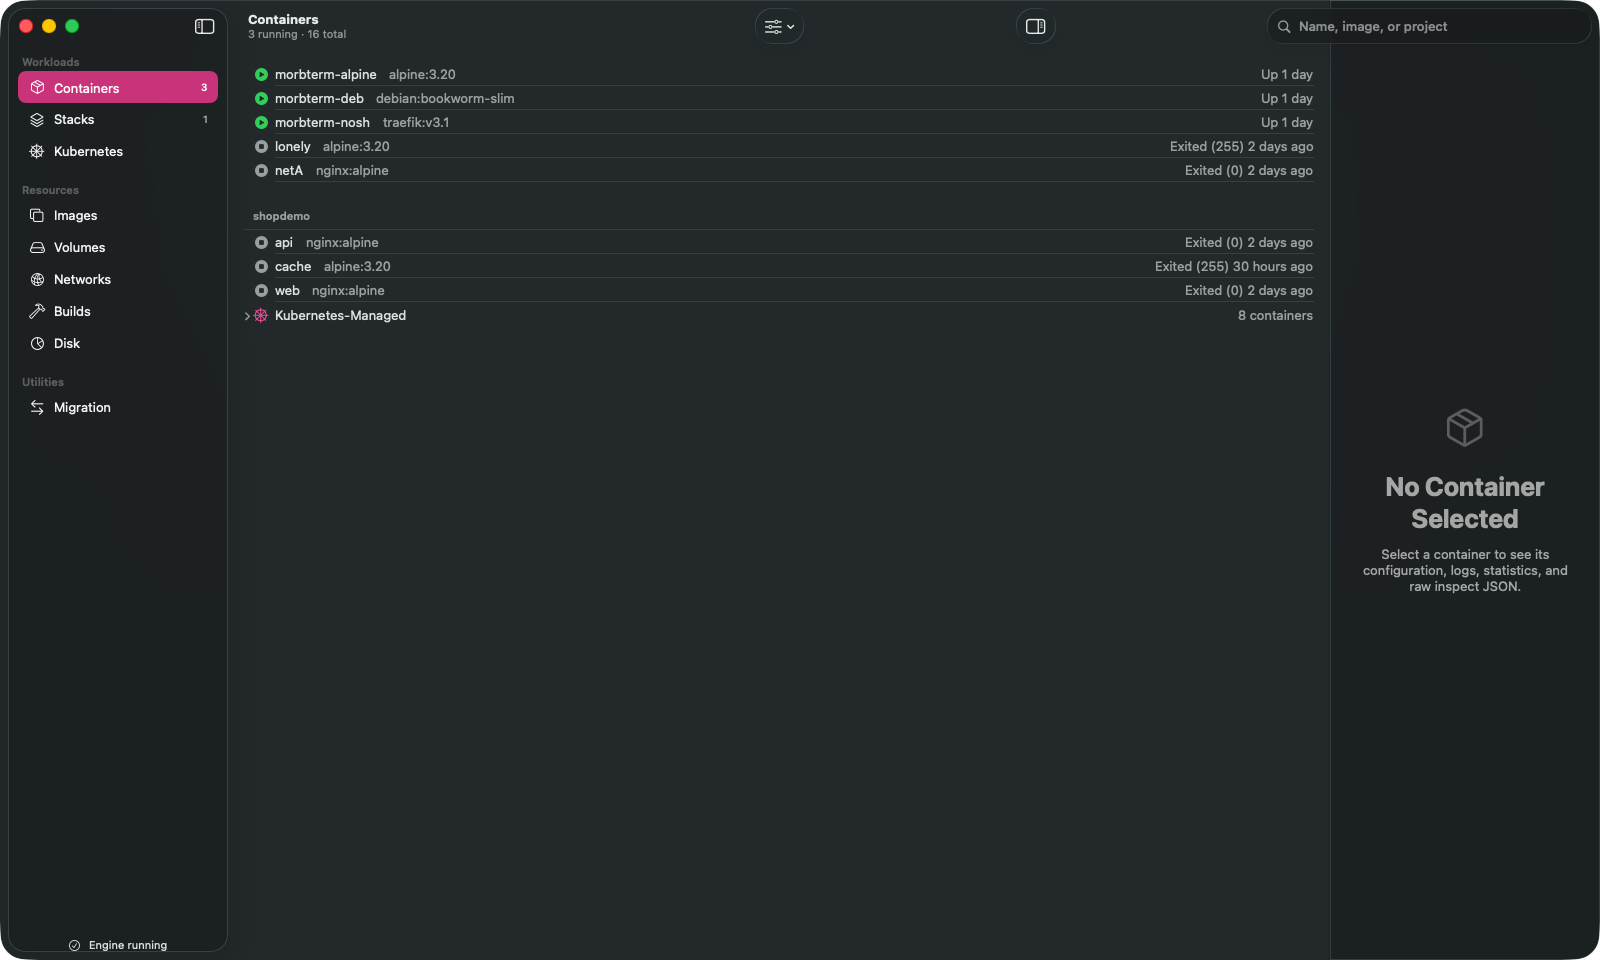
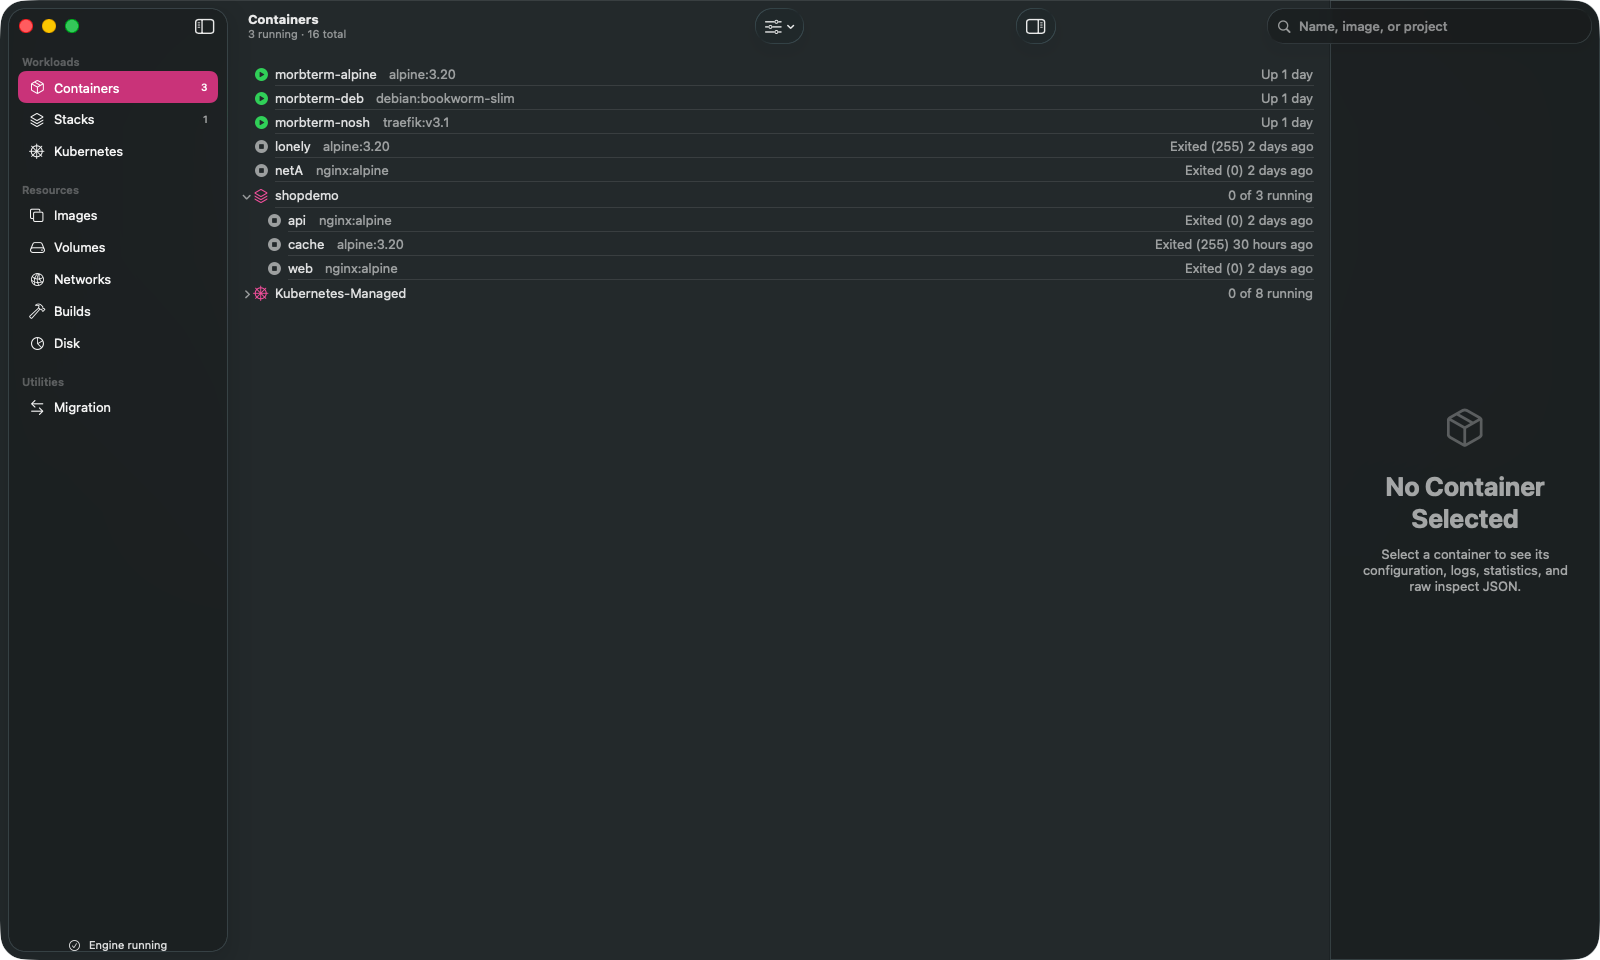
TASTE-2: one grouping idiom, and counts that answer the question
Containers showed two things that are the same kind of thing -- a named
collection of containers -- in two different ways. A Compose project was a
`Section`: not collapsible, no count. The Kubernetes tier was a
`DisclosureGroup`: collapsible, counted, with a symbol. One screen, two
grammars, and the reader has to learn both.

The taste review filed this when it was an internal inconsistency. Landing
TASTE-1 made it worse: StacksRootView now uses disclosure for the identical
concept, so the same idea had three presentations across two screens.

Both tiers are now disclosure groups with a symbol and a count, and both
force themselves open while a search is active -- a match concealed behind
a disclosure reads as no match at all.

The counts changed from "8 containers" to "0 of 8 running". A bare count
answers a question nobody asked; how many are UP is the reason you would
open the group. It is also the honest reading of this particular screen
right now: the shopdemo project looks alive until its header tells you
nothing in it is running.

Expansion state tracks what the person has deliberately COLLAPSED rather
than what they have expanded, matching Stacks. A project that appears while
the app is open therefore arrives visible; the inverse would mean every new
project starts hidden.

The file header claimed Compose projects were Sections. Rewritten, because
a header comment describing a structure the file no longer has is worse
[…]

Changed region(s): [[0.1562, 0.1875, 0.25, 0.3438], [0.7188, 0.1875, 0.8125, 0.3438]]

diff --git a/mac/Sources/MorbstackAppCore/Views/Containers/ContainersRootView.swift b/mac/Sources/MorbstackAppCore/Views/Containers/ContainersRootView.swift
@@ -10,14 +10,27 @@
 //
 // The list groups rows by what Docker itself reports about them, in three tiers:
 // plain `docker run` containers stay loose at the top, each Compose project becomes a
-// native `Section` named by its `com.docker.compose.project` label, and
-// kubelet-created containers collapse into one `DisclosureGroup`. The Kubernetes tier
-// exists because a single enabled cluster adds nine-plus machine-named rows
-// (`k8s_POD_…`) that bury the containers a person started deliberately. Collapsed is
-// not hidden: the group row states its true count, expands on click, and expands
-// itself whenever a search is active so a match can never be concealed. Stacks remains
-// the route that *manages* Compose projects; the section header here is only the
-// grouping fact, the same way Docker Desktop and OrbStack present it.
+// `DisclosureGroup` named by its `com.docker.compose.project` label, and kubelet-created
+// containers collapse into one more. The Kubernetes tier exists because a single enabled
+// cluster adds nine-plus machine-named rows (`k8s_POD_…`) that bury the containers a
+// person started deliberately.
+//
+// **One grouping idiom, deliberately.** Compose projects were `Section`s while the
+// Kubernetes tier was a `DisclosureGroup`, so two things that are the same kind of thing
+// — a named collection of containers — looked and behaved differently on one screen: one
+// collapsed, one did not, and only one carried a count. `StacksRootView` reaches for
+// disclosure for the identical concept, so this is consistent within the screen and
+// across the app.
+//
+// Collapsed is not hidden. Every group row carries "n of m running" — the fact that
+// would make someone open it, where a bare count answers a question nobody asked — and
+// every group forces itself open while a search is active, because a match concealed
+// behind a disclosure reads as no match at all.
+//
+// Expansion state tracks what the person has deliberately COLLAPSED, so a project that
+// appears while the app is open arrives visible. Stacks remains the route that *manages*
+// Compose projects; the grouping here is only the fact, the same way Docker Desktop and
+// OrbStack present it.
 
 import Foundation
 import MorbstackKit
@@ -101,6 +114,7 @@ struct ContainersRootView: View {
     /// the group row still names its count, so nothing is silently hidden — and
     /// forced open while a search is active so a matching row can always be seen.
     @State private var isKubernetesGroupExpanded = false
+    @State private var collapsedProjects: Set<String> = []
 
     private var stoppedCount: Int {
         model.containers.filter { !$0.isRunning }.count
@@ -353,12 +367,29 @@ struct ContainersRootView: View {
                 containerRow(container)
             }
 
+            // One grouping idiom for the whole screen. A Compose project used to be a
+            // `Section` while the Kubernetes group below was a `DisclosureGroup`, so
+            // two things that are the same kind of thing — a named collection of
+            // containers — looked and behaved differently on one list: one could be
+            // collapsed, one could not, and only one carried a count. `StacksRootView`
+            // reaches for disclosure for the identical concept, so this is the shape
+            // that is consistent both within the screen and across the app.
             ForEach(grouped.projects, id: \.name) { project in
-                Section(project.name) {
+                DisclosureGroup(isExpanded: projectExpansion(project.name)) {
                     ForEach(project.containers) { container in
                         containerRow(container)
                     }
+                } label: {
+                    HStack {
+                        Label(project.name, systemImage: "square.stack.3d.up")
+                        Spacer(minLength: 12)
+                        Text(runningSummary(project.containers))
+                            .foregroundStyle(.secondary)
+                            .monospacedDigit()
+                    }
+                    .help("Containers labelled with the Compose project \(project.name).")
                 }
+                .accessibilityIdentifier("containers.project.\(project.name)")
             }
 
             if !grouped.kubernetes.isEmpty {
@@ -372,7 +403,7 @@ struct ContainersRootView: View {
                         // so the group visibly points at that screen.
                         Label("Kubernetes-Managed", systemImage: "helm")
                         Spacer(minLength: 12)
-                        Text("\(grouped.kubernetes.count) container\(grouped.kubernetes.count == 1 ? "" : "s")")
+                        Text(runningSummary(grouped.kubernetes))
                             .foregroundStyle(.secondary)
                             .monospacedDigit()
                     }
@@ -396,6 +427,31 @@ struct ContainersRootView: View {
     /// Forced open while searching; the person's own expand/collapse otherwise.
     private var kubernetesGroupExpansion: Binding<Bool> {
         search.isEmpty ? $isKubernetesGroupExpanded : .constant(true)
+    }
+
+    /// Compose projects the person has deliberately collapsed. Tracking collapse
+    /// rather than expansion means a project that appears while the app is open
+    /// arrives visible — the default is the useful one. Search forces every project
+    /// open, for the same reason the Kubernetes group opens: a match hidden behind a
+    /// disclosure reads as no match at all.
+    private func projectExpansion(_ project: String) -> Binding<Bool> {
+        guard search.isEmpty else { return .constant(true) }
+        return Binding(
+            get: { !collapsedProjects.contains(project) },
+            set: { expanded in
+                if expanded {
+                    collapsedProjects.remove(project)
+                } else {
+                    collapsedProjects.insert(project)
+                }
+            })
+    }
+
+    /// "2 of 3 running" — what a collapsed group most needs to carry, because it is
+    /// the reason someone would open it. A bare count ("3 containers") answers a
+    /// question nobody asked.
+    private func runningSummary(_ containers: [ContainerSummary]) -> String {
+        "\(containers.filter(\.isRunning).count) of \(containers.count) running"
     }
 
     /// The published host ports, as `docker ps` would list them, deduplicated and
